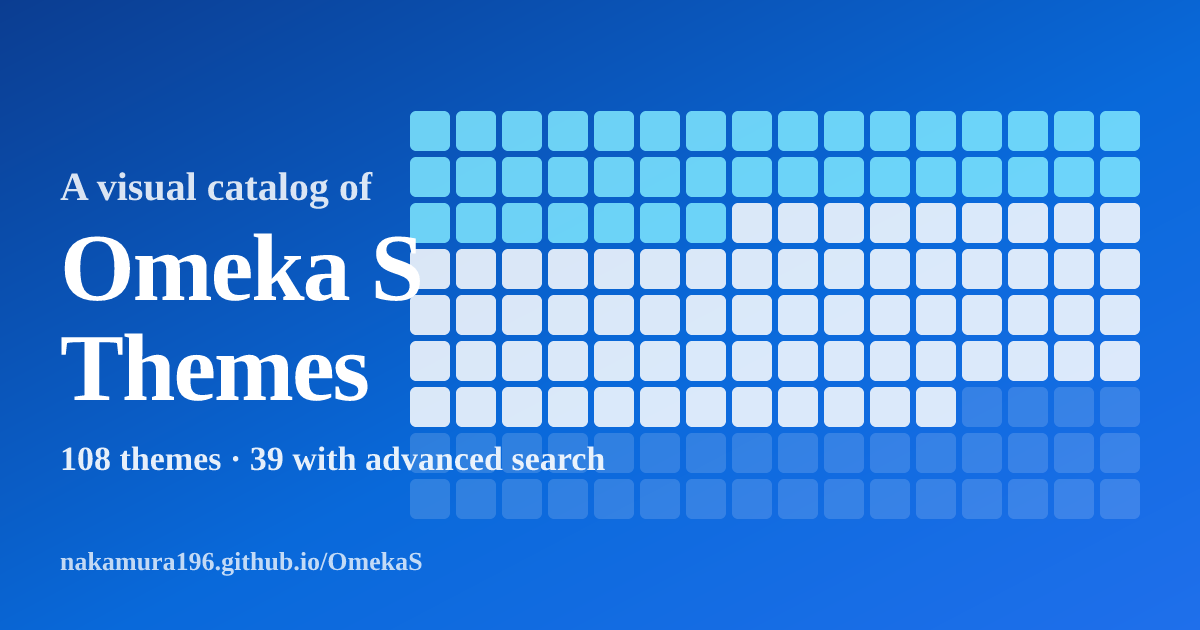
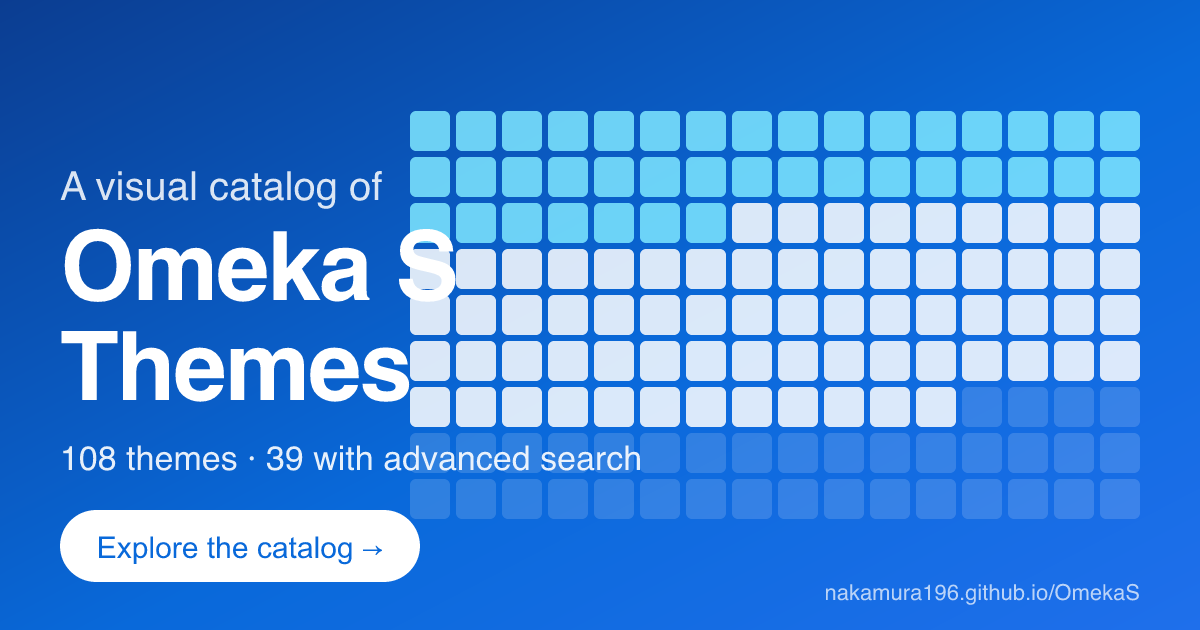
Expand OGP title/description and add CTA to OG image
Address OpenGraph audit findings: title extended to 51 chars with
descriptive tagline, description grown to 124 chars including live
theme counts, and the OG image now carries an "Explore the catalog →"
call-to-action badge.

diff --git a/docs/index.html b/docs/index.html
@@ -3,8 +3,8 @@
 <head>
 <meta charset="UTF-8">
 <meta name="viewport" content="width=device-width, initial-scale=1.0">
-<title>Omeka S Themes</title>
-<meta name="description" content="GitHub 上で公開されている Omeka S テーマの一覧">
+<title>Omeka S Themes — GitHubで公開されているOmeka Sテーマのビジュアルカタログ</title>
+<meta name="description" content="GitHub上で公開されている108件超のOmeka Sテーマをビジュアル付きで一覧できるカタログサイトです。サムネイル・スター数・更新日・説明文を確認でき、名前/オーナー検索、ソート、高度検索対応テーマ(39件)での絞り込みに対応。毎日自動更新。">
 <link rel="canonical" href="https://nakamura196.github.io/OmekaS/">
 
 <!-- Favicon -->
@@ -12,9 +12,9 @@
 
 <!-- Open Graph -->
 <meta property="og:type" content="website">
-<meta property="og:site_name" content="Omeka S Themes">
-<meta property="og:title" content="Omeka S Themes">
-<meta property="og:description" content="GitHub 上で公開されている Omeka S テーマの一覧">
+<meta property="og:site_name" content="Omeka S Themes — GitHubで公開されているOmeka Sテーマのビジュアルカタログ">
+<meta property="og:title" content="Omeka S Themes — GitHubで公開されているOmeka Sテーマのビジュアルカタログ">
+<meta property="og:description" content="GitHub上で公開されている108件超のOmeka Sテーマをビジュアル付きで一覧できるカタログサイトです。サムネイル・スター数・更新日・説明文を確認でき、名前/オーナー検索、ソート、高度検索対応テーマ(39件)での絞り込みに対応。毎日自動更新。">
 <meta property="og:url" content="https://nakamura196.github.io/OmekaS/">
 <meta property="og:image" content="https://nakamura196.github.io/OmekaS/ogp.png">
 <meta property="og:image:width" content="1200">
@@ -24,8 +24,8 @@
 
 <!-- Twitter Card -->
 <meta name="twitter:card" content="summary_large_image">
-<meta name="twitter:title" content="Omeka S Themes">
-<meta name="twitter:description" content="GitHub 上で公開されている Omeka S テーマの一覧">
+<meta name="twitter:title" content="Omeka S Themes — GitHubで公開されているOmeka Sテーマのビジュアルカタログ">
+<meta name="twitter:description" content="GitHub上で公開されている108件超のOmeka Sテーマをビジュアル付きで一覧できるカタログサイトです。サムネイル・スター数・更新日・説明文を確認でき、名前/オーナー検索、ソート、高度検索対応テーマ(39件)での絞り込みに対応。毎日自動更新。">
 <meta name="twitter:image" content="https://nakamura196.github.io/OmekaS/ogp.png">
 <meta name="twitter:image:alt" content="A visual catalog of Omeka S themes hosted on GitHub.">
 <style>
@@ -69,7 +69,7 @@
 <header>
   <div class="container">
     <h1>Omeka S Themes</h1>
-    <p class="subtitle">GitHub 上で公開されている Omeka S テーマの一覧</p>
+    <p class="subtitle">GitHub上で公開されている108件超のOmeka Sテーマをビジュアル付きで一覧できるカタログサイトです。サムネイル・スター数・更新日・説明文を確認でき、名前/オーナー検索、ソート、高度検索対応テーマ(39件)での絞り込みに対応。毎日自動更新。</p>
   </div>
 </header>
 <main class="container">
@@ -86,7 +86,7 @@
   <div class="grid" id="grid"></div>
 </main>
 <footer>
-  Built at 2026-04-05T22:38:42.178Z · Source: <a href="https://github.com/Daniel-KM/UpgradeToOmekaS" target="_blank" rel="noopener">UpgradeToOmekaS</a>
+  Built at 2026-04-05T22:41:58.728Z · Source: <a href="https://github.com/Daniel-KM/UpgradeToOmekaS" target="_blank" rel="noopener">UpgradeToOmekaS</a>
 </footer>
 <script id="data" type="application/json">[{"name":"bookshelf","owner":"indic-archive","url":"https://github.com/indic-archive/bookshelf","description":"Bookshelf is a theme for Omeka S","stars":7,"last_updated":"2024-11-13T11:12:35Z","theme_url":"https://raw.githubusercontent.com/indic-archive/bookshelf/master/theme.jpg","has_advanced_search":false},{"name":"foundation","owner":"omeka-s-themes","url":"https://github.com/omeka-s-themes/foundation","description":"An Omeka S theme based off ZURB Foundation","stars":7,"last_updated":"2025-12-18T15:26:00Z","theme_url":"https://raw.githubusercontent.com/omeka-s-themes/foundation/master/theme.jpg","has_advanced_search":false},{"name":"freedom","owner":"omeka-s-themes","url":"https://github.com/omeka-s-themes/freedom","description":"An Omeka S Theme","stars":4,"last_updated":"2026-02-10T23:47:23Z","theme_url":"https://raw.githubusercontent.com/omeka-s-themes/freedom/master/theme.jpg","has_advanced_search":true},{"name":"thedaily","owner":"omeka-s-themes","url":"https://github.com/omeka-s-themes/thedaily","description":null,"stars":4,"last_updated":"2026-03-25T14:43:06Z","theme_url":"https://raw.githubusercontent.com/omeka-s-themes/thedaily/master/theme.jpg","has_advanced_search":false},{"name":"AgileBaseOmekaTheme","owner":"agile-humanities","url":"https://github.com/agile-humanities/AgileBaseOmekaTheme","description":null,"stars":3,"last_updated":"2025-10-07T12:44:39Z","theme_url":null,"has_advanced_search":true},{"name":"exhibits-omeka-s-theme","owner":"dharc-org","url":"https://github.com/dharc-org/exhibits-omeka-s-theme","description":null,"stars":3,"last_updated":"2025-05-24T08:19:12Z","theme_url":"https://raw.githubusercontent.com/dharc-org/exhibits-omeka-s-theme/main/theme.jpg","has_advanced_search":true},{"name":"Omeka-S-theme-psl","owner":"Daniel-KM","url":"https://github.com/Daniel-KM/Omeka-S-theme-psl","description":"PSL theme for Omeka S","stars":3,"last_updated":"2021-09-29T00:09:27Z","theme_url":"https://raw.githubusercontent.com/Daniel-KM/Omeka-S-theme-psl/master/theme.jpg","has_advanced_search":false},{"name":"speakout","owner":"dartmouth-dltg","url":"https://github.com/dartmouth-dltg/speakout","description":"Omeka-S theme for Dartmouth College Library's SpeakOut project","stars":3,"last_updated":"2025-03-26T20:32:36Z","theme_url":"https://raw.githubusercontent.com/dartmouth-dltg/speakout/main/theme.jpg","has_advanced_search":false},{"name":"bcda-theme","owner":"Omeka-External","url":"https://github.com/Omeka-External/bcda-theme","description":null,"stars":2,"last_updated":"2024-10-02T18:25:11Z","theme_url":"https://raw.githubusercontent.com/Omeka-External/bcda-theme/master/theme.jpg","has_advanced_search":false},{"name":"centerrow","owner":"omeka-s-themes","url":"https://github.com/omeka-s-themes/centerrow","description":null,"stars":2,"last_updated":"2026-03-26T18:34:51Z","theme_url":"https://raw.githubusercontent.com/omeka-s-themes/centerrow/master/theme.jpg","has_advanced_search":false},{"name":"default","owner":"omeka-s-themes","url":"https://github.com/omeka-s-themes/default","description":null,"stars":2,"last_updated":"2026-03-27T15:31:51Z","theme_url":"https://raw.githubusercontent.com/omeka-s-themes/default/develop/theme.jpg","has_advanced_search":false},{"name":"historical-accountability","owner":"dartmouth-dltg","url":"https://github.com/dartmouth-dltg/historical-accountability","description":"Custom Omeka-S theme for Dartmouth Library's Historical Accountability Project","stars":2,"last_updated":"2025-12-01T21:09:05Z","theme_url":"https://raw.githubusercontent.com/dartmouth-dltg/historical-accountability/main/theme.jpg","has_advanced_search":false},{"name":"lively","owner":"omeka-s-themes","url":"https://github.com/omeka-s-themes/lively","description":null,"stars":2,"last_updated":"2026-02-10T23:47:25Z","theme_url":"https://raw.githubusercontent.com/omeka-s-themes/lively/master/theme.jpg","has_advanced_search":true},{"name":"Omeka-S-Bootstrap-Theme","owner":"Libnamic","url":"https://github.com/Libnamic/Omeka-S-Bootstrap-Theme","description":null,"stars":2,"last_updated":"2022-11-07T15:11:07Z","theme_url":"https://raw.githubusercontent.com/Libnamic/Omeka-S-Bootstrap-Theme/master/theme.jpg","has_advanced_search":true},{"name":"Omeka-S-theme-Bootstrap5","owner":"ldasjp8","url":"https://github.com/ldasjp8/Omeka-S-theme-Bootstrap5","description":"[DEPRECATED] Moved to https://github.com/nakamura196/Omeka-S-theme-Bootstrap5","stars":2,"last_updated":"2025-08-29T21:56:27Z","theme_url":"https://raw.githubusercontent.com/ldasjp8/Omeka-S-theme-Bootstrap5/main/theme.jpg","has_advanced_search":true},{"name":"omeka-s-theme-DigitalMuret","owner":"INHAParis","url":"https://github.com/INHAParis/omeka-s-theme-DigitalMuret","description":"DigitalMuret theme for Omeka S","stars":2,"last_updated":"2025-10-21T08:42:54Z","theme_url":"https://raw.githubusercontent.com/INHAParis/omeka-s-theme-DigitalMuret/master/theme.jpg","has_advanced_search":false},{"name":"Omeka-S-theme-ExploreGrid","owner":"hxsllc","url":"https://github.com/hxsllc/Omeka-S-theme-ExploreGrid","description":"A responsive theme for Omeka-S v3.x with full configuration controls","stars":2,"last_updated":"2022-03-31T18:11:53Z","theme_url":"https://raw.githubusercontent.com/hxsllc/Omeka-S-theme-ExploreGrid/main/theme.jpg","has_advanced_search":false},{"name":"Omeka-S-theme-IIP","owner":"hxsllc","url":"https://github.com/hxsllc/Omeka-S-theme-IIP","description":"Omeka-S theme built for International Institute for Peace, Rutgers University","stars":2,"last_updated":"2021-09-29T00:09:14Z","theme_url":"https://raw.githubusercontent.com/hxsllc/Omeka-S-theme-IIP/main/theme.jpg","has_advanced_search":false},{"name":"plugin-AjaxCreate","owner":"omeka","url":"https://github.com/omeka/plugin-AjaxCreate","description":"Omeka plugin to add a way to create new records via ajax","stars":2,"last_updated":"2013-12-17T12:51:21Z","theme_url":null,"has_advanced_search":false},{"name":"UO-Library-Omeka-S-Theme","owner":"uoregon-libraries","url":"https://github.com/uoregon-libraries/UO-Library-Omeka-S-Theme","description":"A theme for Omeka S based on the default theme","stars":2,"last_updated":"2023-05-03T23:14:16Z","theme_url":"https://raw.githubusercontent.com/uoregon-libraries/UO-Library-Omeka-S-Theme/main/theme.jpg","has_advanced_search":false},{"name":"ajotpy_theme","owner":"kylelarkin","url":"https://github.com/kylelarkin/ajotpy_theme","description":"A Journal of the Plague Year Custom Omeka S Theme","stars":1,"last_updated":"2023-07-26T17:01:15Z","theme_url":"https://raw.githubusercontent.com/kylelarkin/ajotpy_theme/master/theme.jpg","has_advanced_search":false},{"name":"basic-dartmouth-theme","owner":"dartmouth-dltg","url":"https://github.com/dartmouth-dltg/basic-dartmouth-theme","description":"A very basic Dartmouth Library Omeka-S theme","stars":1,"last_updated":"2025-12-01T21:07:13Z","theme_url":"https://raw.githubusercontent.com/dartmouth-dltg/basic-dartmouth-theme/main/theme.jpg","has_advanced_search":false},{"name":"bcda-child-theme","owner":"Omeka-External","url":"https://github.com/Omeka-External/bcda-child-theme","description":null,"stars":1,"last_updated":"2023-11-02T22:52:10Z","theme_url":"https://raw.githubusercontent.com/Omeka-External/bcda-child-theme/master/theme.jpg","has_advanced_search":true},{"name":"constellations-theme","owner":"Omeka-External","url":"https://github.com/Omeka-External/constellations-theme","description":null,"stars":1,"last_updated":"2025-04-23T03:35:26Z","theme_url":"https://raw.githubusercontent.com/Omeka-External/constellations-theme/main/theme.jpg","has_advanced_search":true},{"name":"cozy","owner":"omeka-s-themes","url":"https://github.com/omeka-s-themes/cozy","description":null,"stars":1,"last_updated":"2026-03-25T14:23:12Z","theme_url":"https://raw.githubusercontent.com/omeka-s-themes/cozy/master/theme.jpg","has_advanced_search":false},{"name":"dharc-omeka-s-theme","owner":"dharc-org","url":"https://github.com/dharc-org/dharc-omeka-s-theme","description":"Theme for Omeka-s","stars":1,"last_updated":"2022-11-24T14:52:56Z","theme_url":"https://raw.githubusercontent.com/dharc-org/dharc-omeka-s-theme/master/theme.jpg","has_advanced_search":false},{"name":"digitalcollecting","owner":"scholarslab","url":"https://github.com/scholarslab/digitalcollecting","description":"A theme for Omeka S","stars":1,"last_updated":"2020-11-02T23:28:29Z","theme_url":"https://raw.githubusercontent.com/scholarslab/digitalcollecting/master/theme.jpg","has_advanced_search":false},{"name":"korematsu-theme","owner":"Omeka-External","url":"https://github.com/Omeka-External/korematsu-theme","description":null,"stars":1,"last_updated":"2025-04-22T20:41:11Z","theme_url":"https://raw.githubusercontent.com/Omeka-External/korematsu-theme/main/theme.jpg","has_advanced_search":true},{"name":"mitlibraries-theme-omeka","owner":"MITLibraries","url":"https://github.com/MITLibraries/mitlibraries-theme-omeka","description":"A theme for Omeka S","stars":1,"last_updated":"2025-07-14T22:15:37Z","theme_url":"https://raw.githubusercontent.com/MITLibraries/mitlibraries-theme-omeka/main/theme.jpg","has_advanced_search":true},{"name":"omeka-s-gpppoc-theme","owner":"kingsdigitallab","url":"https://github.com/kingsdigitallab/omeka-s-gpppoc-theme","description":null,"stars":1,"last_updated":"2018-01-18T08:49:15Z","theme_url":null,"has_advanced_search":false},{"name":"omeka-s-theme","owner":"religious-ecologies","url":"https://github.com/religious-ecologies/omeka-s-theme","description":null,"stars":1,"last_updated":"2023-12-18T03:47:05Z","theme_url":null,"has_advanced_search":true},{"name":"Omeka-S-theme-3DHOmekaS","owner":"FedericoNurra","url":"https://github.com/FedericoNurra/Omeka-S-theme-3DHOmekaS","description":"An Omeka S theme for 3DHOP visualisations","stars":1,"last_updated":"2026-03-22T15:30:27Z","theme_url":"https://raw.githubusercontent.com/FedericoNurra/Omeka-S-theme-3DHOmekaS/main/theme.jpg","has_advanced_search":true},{"name":"Omeka-S-theme-Bootstrap5","owner":"nakamura196","url":"https://github.com/nakamura196/Omeka-S-theme-Bootstrap5","description":null,"stars":1,"last_updated":"2025-09-11T15:37:38Z","theme_url":"https://raw.githubusercontent.com/nakamura196/Omeka-S-theme-Bootstrap5/main/theme.jpg","has_advanced_search":true},{"name":"omeka-s-theme-omekalia","owner":"biblibre","url":"https://github.com/biblibre/omeka-s-theme-omekalia","description":null,"stars":1,"last_updated":"2026-03-19T14:23:39Z","theme_url":"https://raw.githubusercontent.com/biblibre/omeka-s-theme-omekalia/master/theme.jpg","has_advanced_search":true},{"name":"omeka-s-theme-slavery-images","owner":"SlaveryImages","url":"https://github.com/SlaveryImages/omeka-s-theme-slavery-images","description":"Omeka S theme for SlaveryImages.org","stars":1,"last_updated":"2020-12-10T20:24:58Z","theme_url":"https://raw.githubusercontent.com/SlaveryImages/omeka-s-theme-slavery-images/master/theme.jpg","has_advanced_search":true},{"name":"omeka-s-theme-starterkit","owner":"sinanatra","url":"https://github.com/sinanatra/omeka-s-theme-starterkit","description":"This repo is my own starterkit for Omeka S projects","stars":1,"last_updated":"2024-06-30T21:39:26Z","theme_url":null,"has_advanced_search":false},{"name":"omekas-bootstrap-theme","owner":"medeopolis","url":"https://github.com/medeopolis/omekas-bootstrap-theme","description":"Omeka S theme based on bootstrap 3.3.7","stars":1,"last_updated":"2022-10-03T01:15:25Z","theme_url":"https://raw.githubusercontent.com/medeopolis/omekas-bootstrap-theme/master/theme.jpg","has_advanced_search":true},{"name":"OmekaS-Marriott-Library-Default-Theme","owner":"marriott-library","url":"https://github.com/marriott-library/OmekaS-Marriott-Library-Default-Theme","description":null,"stars":1,"last_updated":"2026-02-03T00:04:45Z","theme_url":"https://raw.githubusercontent.com/marriott-library/OmekaS-Marriott-Library-Default-Theme/master/theme.jpg","has_advanced_search":false},{"name":"Omekatheme","owner":"Libnamic","url":"https://github.com/Libnamic/Omekatheme","description":"theme for Omeka S ","stars":1,"last_updated":"2021-04-09T12:12:28Z","theme_url":"https://raw.githubusercontent.com/Libnamic/Omekatheme/master/theme.jpg","has_advanced_search":false},{"name":"UMFA-OmekaS-Theme","owner":"marriott-library","url":"https://github.com/marriott-library/UMFA-OmekaS-Theme","description":null,"stars":1,"last_updated":"2023-05-29T20:57:30Z","theme_url":"https://raw.githubusercontent.com/marriott-library/UMFA-OmekaS-Theme/main/theme.jpg","has_advanced_search":false},{"name":"ahp-theme","owner":"pols12","url":"https://github.com/pols12/ahp-theme","description":"Omeka-S theme for e-HP website.","stars":0,"last_updated":"2018-08-12T22:20:08Z","theme_url":null,"has_advanced_search":false},{"name":"anwuvbeo-theme","owner":"IRISCenter","url":"https://github.com/IRISCenter/anwuvbeo-theme","description":"An Omeka S theme for the Schaefer Edoid Archive","stars":0,"last_updated":"2022-03-16T01:29:59Z","theme_url":"https://raw.githubusercontent.com/IRISCenter/anwuvbeo-theme/main/theme.jpg","has_advanced_search":false},{"name":"appalachian-trails","owner":"chnm","url":"https://github.com/chnm/appalachian-trails","description":"Omeka S theme for All the Appalachian Trails","stars":0,"last_updated":"2023-05-18T00:39:45Z","theme_url":null,"has_advanced_search":false},{"name":"byui-spc","owner":"jonfackrell","url":"https://github.com/jonfackrell/byui-spc","description":"A theme for Omeka S","stars":0,"last_updated":"2020-05-17T04:40:34Z","theme_url":"https://raw.githubusercontent.com/jonfackrell/byui-spc/master/theme.jpg","has_advanced_search":true},{"name":"cdash-theme","owner":"C-Dash","url":"https://github.com/C-Dash/cdash-theme","description":"An Omeka-S theme that supports a map interface, external map services  and a hierarchy pf Place and Document Items.","stars":0,"last_updated":"2025-07-02T13:54:47Z","theme_url":"https://raw.githubusercontent.com/C-Dash/cdash-theme/main/theme.jpg","has_advanced_search":false},{"name":"centerrow-taep","owner":"hxsllc","url":"https://github.com/hxsllc/centerrow-taep","description":"Edison Papers Omeka theme","stars":0,"last_updated":"2024-02-26T21:19:02Z","theme_url":"https://raw.githubusercontent.com/hxsllc/centerrow-taep/main/theme.jpg","has_advanced_search":true},{"name":"centerrow-temple","owner":"tulibraries","url":"https://github.com/tulibraries/centerrow-temple","description":"Customized Omeka-S theme based on CenterRow by the Omeka Team","stars":0,"last_updated":"2023-02-20T13:22:45Z","theme_url":"https://raw.githubusercontent.com/tulibraries/centerrow-temple/main/theme.jpg","has_advanced_search":false},{"name":"centerrowLoyola150","owner":"zmstella","url":"https://github.com/zmstella/centerrowLoyola150","description":"Files/documentation for the Then and Now: 150 at Loyola University Chicago development site ('centerrow' child theme)","stars":0,"last_updated":"2022-04-29T14:20:08Z","theme_url":"https://raw.githubusercontent.com/zmstella/centerrowLoyola150/main/theme.jpg","has_advanced_search":false},{"name":"clarity","owner":"omeka-s-themes","url":"https://github.com/omeka-s-themes/clarity","description":null,"stars":0,"last_updated":"2022-01-20T19:19:17Z","theme_url":null,"has_advanced_search":true},{"name":"collecting-these-times-spoke","owner":"chnm","url":"https://github.com/chnm/collecting-these-times-spoke","description":null,"stars":0,"last_updated":"2021-02-24T14:53:20Z","theme_url":"https://raw.githubusercontent.com/chnm/collecting-these-times-spoke/main/theme.jpg","has_advanced_search":true},{"name":"dlme-omeka-s-theme","owner":"waynegraham","url":"https://github.com/waynegraham/dlme-omeka-s-theme","description":"Omeka S theme for DLME Registry","stars":0,"last_updated":"2021-09-02T13:40:02Z","theme_url":"https://raw.githubusercontent.com/waynegraham/dlme-omeka-s-theme/main/theme.jpg","has_advanced_search":true},{"name":"exhibits-omeka-s-theme","owner":"katalu","url":"https://github.com/katalu/exhibits-omeka-s-theme","description":null,"stars":0,"last_updated":"2021-11-16T09:17:30Z","theme_url":"https://raw.githubusercontent.com/katalu/exhibits-omeka-s-theme/main/theme.jpg","has_advanced_search":true},{"name":"fam-oer-theme","owner":"Omeka-External","url":"https://github.com/Omeka-External/fam-oer-theme","description":null,"stars":0,"last_updated":"2025-11-13T02:28:11Z","theme_url":"https://raw.githubusercontent.com/Omeka-External/fam-oer-theme/main/theme.jpg","has_advanced_search":true},{"name":"fit-aod","owner":"fitnycdigitalinitiatives","url":"https://github.com/fitnycdigitalinitiatives/fit-aod","description":"Omeka-S theme for Archive on Demand","stars":0,"last_updated":"2025-11-17T16:51:55Z","theme_url":"https://raw.githubusercontent.com/fitnycdigitalinitiatives/fit-aod/main/theme.jpg","has_advanced_search":true},{"name":"fit-df","owner":"fitnycdigitalinitiatives","url":"https://github.com/fitnycdigitalinitiatives/fit-df","description":"Designer Files omeka-s theme","stars":0,"last_updated":"2026-01-20T19:42:22Z","theme_url":"https://raw.githubusercontent.com/fitnycdigitalinitiatives/fit-df/main/theme.jpg","has_advanced_search":true},{"name":"fit-fc","owner":"fitnycdigitalinitiatives","url":"https://github.com/fitnycdigitalinitiatives/fit-fc","description":"Fashion Calendar theme for omeka-s","stars":0,"last_updated":"2025-11-14T14:27:38Z","theme_url":"https://raw.githubusercontent.com/fitnycdigitalinitiatives/fit-fc/main/theme.jpg","has_advanced_search":true},{"name":"fit-ir","owner":"fitnycdigitalinitiatives","url":"https://github.com/fitnycdigitalinitiatives/fit-ir","description":"Omeka-S theme for the FIT Institutional Repository. Built upon Bootstrap framework. Works with FITModule, Relators Module, and FIT-forked Solr modules, and FIT-forked MetadataBrowse.","stars":0,"last_updated":"2025-10-23T18:58:28Z","theme_url":"https://raw.githubusercontent.com/fitnycdigitalinitiatives/fit-ir/main/theme.jpg","has_advanced_search":true},{"name":"gmu-cml-theme","owner":"Omeka-External","url":"https://github.com/Omeka-External/gmu-cml-theme","description":null,"stars":0,"last_updated":"2026-03-10T01:00:11Z","theme_url":"https://raw.githubusercontent.com/Omeka-External/gmu-cml-theme/main/theme.jpg","has_advanced_search":true},{"name":"hearing-the-americas","owner":"chnm","url":"https://github.com/chnm/hearing-the-americas","description":"Omeka S theme for Hearing the Americas","stars":0,"last_updated":"2023-05-18T00:41:50Z","theme_url":null,"has_advanced_search":false},{"name":"horses-in-medicine","owner":"Omeka-External","url":"https://github.com/Omeka-External/horses-in-medicine","description":"Fork of Foundation S with a custom stylesheet for Use of Horses in Medicine","stars":0,"last_updated":"2020-09-01T13:57:12Z","theme_url":"https://raw.githubusercontent.com/Omeka-External/horses-in-medicine/horse-theme/theme.jpg","has_advanced_search":true},{"name":"inglorious_artist_theme","owner":"UNC-Libraries-data","url":"https://github.com/UNC-Libraries-data/inglorious_artist_theme","description":null,"stars":0,"last_updated":"2024-04-19T18:20:43Z","theme_url":"https://raw.githubusercontent.com/UNC-Libraries-data/inglorious_artist_theme/main/theme.jpg","has_advanced_search":true},{"name":"ksharp","owner":"UIUCLibrary","url":"https://github.com/UIUCLibrary/ksharp","description":null,"stars":0,"last_updated":"2025-06-03T18:49:31Z","theme_url":"https://raw.githubusercontent.com/UIUCLibrary/ksharp/main/theme.jpg","has_advanced_search":false},{"name":"legacies-hub","owner":"Omeka-External","url":"https://github.com/Omeka-External/legacies-hub","description":null,"stars":0,"last_updated":"2022-04-28T19:05:59Z","theme_url":"https://raw.githubusercontent.com/Omeka-External/legacies-hub/main/theme.jpg","has_advanced_search":true},{"name":"legacies-spoke","owner":"Omeka-External","url":"https://github.com/Omeka-External/legacies-spoke","description":null,"stars":0,"last_updated":"2024-05-17T17:26:57Z","theme_url":"https://raw.githubusercontent.com/Omeka-External/legacies-spoke/main/theme.jpg","has_advanced_search":true},{"name":"new_BU_theme","owner":"Marc-Antoine-Lune","url":"https://github.com/Marc-Antoine-Lune/new_BU_theme","description":null,"stars":0,"last_updated":"2024-04-26T12:28:48Z","theme_url":"https://raw.githubusercontent.com/Marc-Antoine-Lune/new_BU_theme/main/theme.jpg","has_advanced_search":false},{"name":"Omeka-S-Akrep-Theme","owner":"procesaur","url":"https://github.com/procesaur/Omeka-S-Akrep-Theme","description":"Theme for Omeka-S-based advanced active repositories","stars":0,"last_updated":"2025-08-15T08:16:35Z","theme_url":"https://raw.githubusercontent.com/procesaur/Omeka-S-Akrep-Theme/main/theme.jpg","has_advanced_search":false},{"name":"omeka-s-dlll-theme","owner":"billxu0521","url":"https://github.com/billxu0521/omeka-s-dlll-theme","description":"omeka s主題","stars":0,"last_updated":"2023-01-28T13:00:46Z","theme_url":"https://raw.githubusercontent.com/billxu0521/omeka-s-dlll-theme/master/theme.jpg","has_advanced_search":true},{"name":"Omeka-S-Library-Theme","owner":"fewarren","url":"https://github.com/fewarren/Omeka-S-Library-Theme","description":"Customized version of the Cumulus Omeka S Theme","stars":0,"last_updated":"2025-10-15T17:03:56Z","theme_url":"https://raw.githubusercontent.com/fewarren/Omeka-S-Library-Theme/main/theme.jpg","has_advanced_search":false},{"name":"omeka-s-registry","owner":"clirdlf","url":"https://github.com/clirdlf/omeka-s-registry","description":null,"stars":0,"last_updated":"2021-06-24T12:59:12Z","theme_url":null,"has_advanced_search":false},{"name":"Omeka-S-theme-Albert1er","owner":"Daniel-KM","url":"https://github.com/Daniel-KM/Omeka-S-theme-Albert1er","description":"Theme for PSL project \"Campagnes scientifiques d'Albert 1er de Monaco\"","stars":0,"last_updated":"2020-04-24T08:24:38Z","theme_url":"https://raw.githubusercontent.com/Daniel-KM/Omeka-S-theme-Albert1er/master/theme.jpg","has_advanced_search":false},{"name":"Omeka-S-theme-AudioBNF","owner":"samszo","url":"https://github.com/samszo/Omeka-S-theme-AudioBNF","description":null,"stars":0,"last_updated":"2025-03-31T09:46:40Z","theme_url":"https://raw.githubusercontent.com/samszo/Omeka-S-theme-AudioBNF/main/theme.jpg","has_advanced_search":false},{"name":"Omeka-S-theme-CartoAffect","owner":"samszo","url":"https://github.com/samszo/Omeka-S-theme-CartoAffect","description":null,"stars":0,"last_updated":"2022-07-25T06:12:07Z","theme_url":"https://raw.githubusercontent.com/samszo/Omeka-S-theme-CartoAffect/master/theme.jpg","has_advanced_search":false},{"name":"Omeka-S-theme-docarchive","owner":"utarchives","url":"https://github.com/utarchives/Omeka-S-theme-docarchive","description":null,"stars":0,"last_updated":"2023-03-30T04:44:26Z","theme_url":"https://raw.githubusercontent.com/utarchives/Omeka-S-theme-docarchive/main/theme.jpg","has_advanced_search":false},{"name":"Omeka-S-theme-EDISEM","owner":"samszo","url":"https://github.com/samszo/Omeka-S-theme-EDISEM","description":"EDItorialisation de SEMinaire","stars":0,"last_updated":"2022-01-30T09:06:10Z","theme_url":"https://raw.githubusercontent.com/samszo/Omeka-S-theme-EDISEM/main/theme.jpg","has_advanced_search":false},{"name":"Omeka-S-theme-FeuilletNumerique","owner":"samszo","url":"https://github.com/samszo/Omeka-S-theme-FeuilletNumerique","description":null,"stars":0,"last_updated":"2021-11-19T03:39:09Z","theme_url":"https://raw.githubusercontent.com/samszo/Omeka-S-theme-FeuilletNumerique/main/theme.jpg","has_advanced_search":false},{"name":"Omeka-S-theme-Generateur","owner":"samszo","url":"https://github.com/samszo/Omeka-S-theme-Generateur","description":null,"stars":0,"last_updated":"2025-08-20T04:45:58Z","theme_url":"https://raw.githubusercontent.com/samszo/Omeka-S-theme-Generateur/main/theme.jpg","has_advanced_search":false},{"name":"Omeka-S-theme-GenStory","owner":"samszo","url":"https://github.com/samszo/Omeka-S-theme-GenStory","description":null,"stars":0,"last_updated":"2022-03-03T08:12:07Z","theme_url":"https://raw.githubusercontent.com/samszo/Omeka-S-theme-GenStory/main/theme.jpg","has_advanced_search":false},{"name":"Omeka-S-theme-GentGemapt","owner":"GhentCDH","url":"https://github.com/GhentCDH/Omeka-S-theme-GentGemapt","description":null,"stars":0,"last_updated":"2024-08-28T13:46:30Z","theme_url":null,"has_advanced_search":false},{"name":"Omeka-S-theme-Interviews","owner":"samszo","url":"https://github.com/samszo/Omeka-S-theme-Interviews","description":null,"stars":0,"last_updated":"2024-12-02T10:58:32Z","theme_url":"https://raw.githubusercontent.com/samszo/Omeka-S-theme-Interviews/main/theme.jpg","has_advanced_search":false},{"name":"Omeka-S-theme-JDC","owner":"samszo","url":"https://github.com/samszo/Omeka-S-theme-JDC","description":null,"stars":0,"last_updated":"2021-10-24T06:54:38Z","theme_url":"https://raw.githubusercontent.com/samszo/Omeka-S-theme-JDC/main/theme.jpg","has_advanced_search":false},{"name":"omeka-s-theme-objets-pol","owner":"Kaeness","url":"https://github.com/Kaeness/omeka-s-theme-objets-pol","description":null,"stars":0,"last_updated":"2024-11-15T14:13:19Z","theme_url":"https://raw.githubusercontent.com/Kaeness/omeka-s-theme-objets-pol/main/theme.jpg","has_advanced_search":false},{"name":"omeka-s-theme-papyrus","owner":"boregar","url":"https://github.com/boregar/omeka-s-theme-papyrus","description":"A responsive theme for Omeka-S","stars":0,"last_updated":"2026-02-13T11:44:12Z","theme_url":null,"has_advanced_search":false},{"name":"Omeka-S-theme-PolemikaProto","owner":"samszo","url":"https://github.com/samszo/Omeka-S-theme-PolemikaProto","description":null,"stars":0,"last_updated":"2021-12-06T23:22:05Z","theme_url":"https://raw.githubusercontent.com/samszo/Omeka-S-theme-PolemikaProto/main/theme.jpg","has_advanced_search":false},{"name":"Omeka-S-theme-UOH","owner":"samszo","url":"https://github.com/samszo/Omeka-S-theme-UOH","description":null,"stars":0,"last_updated":"2021-07-29T08:05:58Z","theme_url":"https://raw.githubusercontent.com/samszo/Omeka-S-theme-UOH/main/theme.jpg","has_advanced_search":false},{"name":"Omeka-S-theme-ValoP8","owner":"samszo","url":"https://github.com/samszo/Omeka-S-theme-ValoP8","description":null,"stars":0,"last_updated":"2025-11-22T06:09:00Z","theme_url":"https://raw.githubusercontent.com/samszo/Omeka-S-theme-ValoP8/main/theme.jpg","has_advanced_search":false},{"name":"omeka-s-theme-yoruba-diaspora","owner":"SlaveryImages","url":"https://github.com/SlaveryImages/omeka-s-theme-yoruba-diaspora","description":"Omeka S theme for Yoruba Diaspora Site","stars":0,"last_updated":"2021-03-23T16:02:27Z","theme_url":"https://raw.githubusercontent.com/SlaveryImages/omeka-s-theme-yoruba-diaspora/master/theme.jpg","has_advanced_search":true},{"name":"Omeka-theme-McGoogan","owner":"brian-maass-unmc","url":"https://github.com/brian-maass-unmc/Omeka-theme-McGoogan","description":null,"stars":0,"last_updated":"2024-10-07T19:07:41Z","theme_url":"https://raw.githubusercontent.com/brian-maass-unmc/Omeka-theme-McGoogan/main/theme.jpg","has_advanced_search":false},{"name":"Omeka-theme-Wigton","owner":"brian-maass-unmc","url":"https://github.com/brian-maass-unmc/Omeka-theme-Wigton","description":"Theme for original Wigton Exhibits","stars":0,"last_updated":"2024-10-07T19:18:57Z","theme_url":"https://raw.githubusercontent.com/brian-maass-unmc/Omeka-theme-Wigton/main/theme.jpg","has_advanced_search":false},{"name":"OmekaS-Theme-CCSTWlib-Malaysia","owner":"billxu0521","url":"https://github.com/billxu0521/OmekaS-Theme-CCSTWlib-Malaysia","description":"CCSTWlib-Malaysia Theme for OmekaS","stars":0,"last_updated":"2020-11-03T06:06:55Z","theme_url":"https://raw.githubusercontent.com/billxu0521/OmekaS-Theme-CCSTWlib-Malaysia/master/theme.jpg","has_advanced_search":true},{"name":"omekas-theme-um","owner":"MaastrichtU-Library","url":"https://github.com/MaastrichtU-Library/omekas-theme-um","description":"Omeka S theme Maastricht University","stars":0,"last_updated":"2026-03-12T11:26:52Z","theme_url":"https://raw.githubusercontent.com/MaastrichtU-Library/omekas-theme-um/master/theme.jpg","has_advanced_search":false},{"name":"onthesegrounds-theme","owner":"kimisgold","url":"https://github.com/kimisgold/onthesegrounds-theme","description":null,"stars":0,"last_updated":"2023-12-11T20:41:20Z","theme_url":"https://raw.githubusercontent.com/kimisgold/onthesegrounds-theme/master/theme.jpg","has_advanced_search":true},{"name":"papers","owner":"omeka-s-themes","url":"https://github.com/omeka-s-themes/papers","description":"An Omeka S theme based on the Papers of the War Department.","stars":0,"last_updated":"2026-03-25T14:39:13Z","theme_url":"https://raw.githubusercontent.com/omeka-s-themes/papers/master/theme.jpg","has_advanced_search":false},{"name":"patrimoniouja","owner":"alfonsomontejo","url":"https://github.com/alfonsomontejo/patrimoniouja","description":"Patrimonio cultural de la Universidad de Jaén (tema para Omeka S 3.x)","stars":0,"last_updated":"2021-10-25T17:22:29Z","theme_url":"https://raw.githubusercontent.com/alfonsomontejo/patrimoniouja/main/theme.jpg","has_advanced_search":true},{"name":"pdd-omeka-s-theme","owner":"dharc-org","url":"https://github.com/dharc-org/pdd-omeka-s-theme","description":"Theme for Omeka-S","stars":0,"last_updated":"2024-09-03T10:30:01Z","theme_url":"https://raw.githubusercontent.com/dharc-org/pdd-omeka-s-theme/main/theme.jpg","has_advanced_search":true},{"name":"pwd-omeka-s","owner":"chnm","url":"https://github.com/chnm/pwd-omeka-s","description":"Theme for Papers of the War Department","stars":0,"last_updated":"2023-05-18T00:40:08Z","theme_url":null,"has_advanced_search":false},{"name":"reanimated","owner":"amoe","url":"https://github.com/amoe/reanimated","description":null,"stars":0,"last_updated":"2020-06-11T08:39:05Z","theme_url":null,"has_advanced_search":false},{"name":"Rosenwald-Fund-Collection","owner":"Fisk-University","url":"https://github.com/Fisk-University/Rosenwald-Fund-Collection","description":"A custom Omeka S theme developed for the Fisk University Rosenwald Project. This theme is designed to provide a visually accessible, archivist-friendly interface for exploring digitized materials related to Julius Rosenwald’s philanthropic impact on African-American education.","stars":0,"last_updated":"2025-06-10T16:59:25Z","theme_url":"https://raw.githubusercontent.com/Fisk-University/Rosenwald-Fund-Collection/main/theme.jpg","has_advanced_search":false},{"name":"ruza-custom-theme","owner":"DigitalHumanitiesCraft","url":"https://github.com/DigitalHumanitiesCraft/ruza-custom-theme","description":"Repo for the custom theme for the project \"Ružake gila\" (https://www.mdw.ac.at/musicandminorities/projekte/ruzake-gila/). Based on Bootstrap 5.","stars":0,"last_updated":"2025-09-25T07:49:46Z","theme_url":"https://raw.githubusercontent.com/DigitalHumanitiesCraft/ruza-custom-theme/main/theme.jpg","has_advanced_search":true},{"name":"still-theme","owner":"tulibraries","url":"https://github.com/tulibraries/still-theme","description":"William Still Family Site","stars":0,"last_updated":"2023-03-16T19:35:46Z","theme_url":"https://raw.githubusercontent.com/tulibraries/still-theme/main/theme.jpg","has_advanced_search":false},{"name":"storybooth","owner":"dartmouth-dltg","url":"https://github.com/dartmouth-dltg/storybooth","description":"An Omeka-S theme for a bespoke Dartmouth College site","stars":0,"last_updated":"2025-03-25T13:11:05Z","theme_url":"https://raw.githubusercontent.com/dartmouth-dltg/storybooth/main/theme.jpg","has_advanced_search":false},{"name":"StudycollectionOmekaTheme","owner":"tobiashendrickx","url":"https://github.com/tobiashendrickx/StudycollectionOmekaTheme","description":null,"stars":0,"last_updated":"2026-02-24T15:28:44Z","theme_url":"https://raw.githubusercontent.com/tobiashendrickx/StudycollectionOmekaTheme/main/theme.jpg","has_advanced_search":false},{"name":"thanksroy","owner":"omeka-s-themes","url":"https://github.com/omeka-s-themes/thanksroy","description":null,"stars":0,"last_updated":"2026-03-17T16:50:32Z","theme_url":"https://raw.githubusercontent.com/omeka-s-themes/thanksroy/master/theme.jpg","has_advanced_search":false},{"name":"theme_nebraskaland","owner":"CDRH","url":"https://github.com/CDRH/theme_nebraskaland","description":"Omeka S theme for migrated Nebraskaland Digital Archive.","stars":0,"last_updated":"2026-03-30T20:45:56Z","theme_url":"https://raw.githubusercontent.com/CDRH/theme_nebraskaland/main/theme.jpg","has_advanced_search":false},{"name":"theme_uslr","owner":"CDRH","url":"https://github.com/CDRH/theme_uslr","description":"This is a custom Omeka S theme based on Foundation S, created for the U.S. Law & Race Initiative's \"Equality Before the Law\" OER.","stars":0,"last_updated":"2025-12-04T00:59:59Z","theme_url":"https://raw.githubusercontent.com/CDRH/theme_uslr/dev/theme.jpg","has_advanced_search":false},{"name":"themeX","owner":"alexdryden","url":"https://github.com/alexdryden/themeX","description":"Omeka S theme for the BBIP project","stars":0,"last_updated":"2022-11-03T16:13:29Z","theme_url":null,"has_advanced_search":false},{"name":"UO-Library-Omeka-S-Theme-Dark","owner":"uoregon-libraries","url":"https://github.com/uoregon-libraries/UO-Library-Omeka-S-Theme-Dark","description":null,"stars":0,"last_updated":"2023-05-02T21:31:31Z","theme_url":"https://raw.githubusercontent.com/uoregon-libraries/UO-Library-Omeka-S-Theme-Dark/main/theme.jpg","has_advanced_search":false},{"name":"ussixthfleet-site","owner":"jglotzer","url":"https://github.com/jglotzer/ussixthfleet-site","description":null,"stars":0,"last_updated":"2025-12-19T23:16:05Z","theme_url":"https://raw.githubusercontent.com/jglotzer/ussixthfleet-site/main/theme.jpg","has_advanced_search":false},{"name":"yul-omeka-s-topnav","owner":"yalelibrary","url":"https://github.com/yalelibrary/yul-omeka-s-topnav","description":"Omeka S theme","stars":0,"last_updated":"2021-03-01T22:10:48Z","theme_url":"https://raw.githubusercontent.com/yalelibrary/yul-omeka-s-topnav/main/theme.jpg","has_advanced_search":false}]</script>
 <script>
